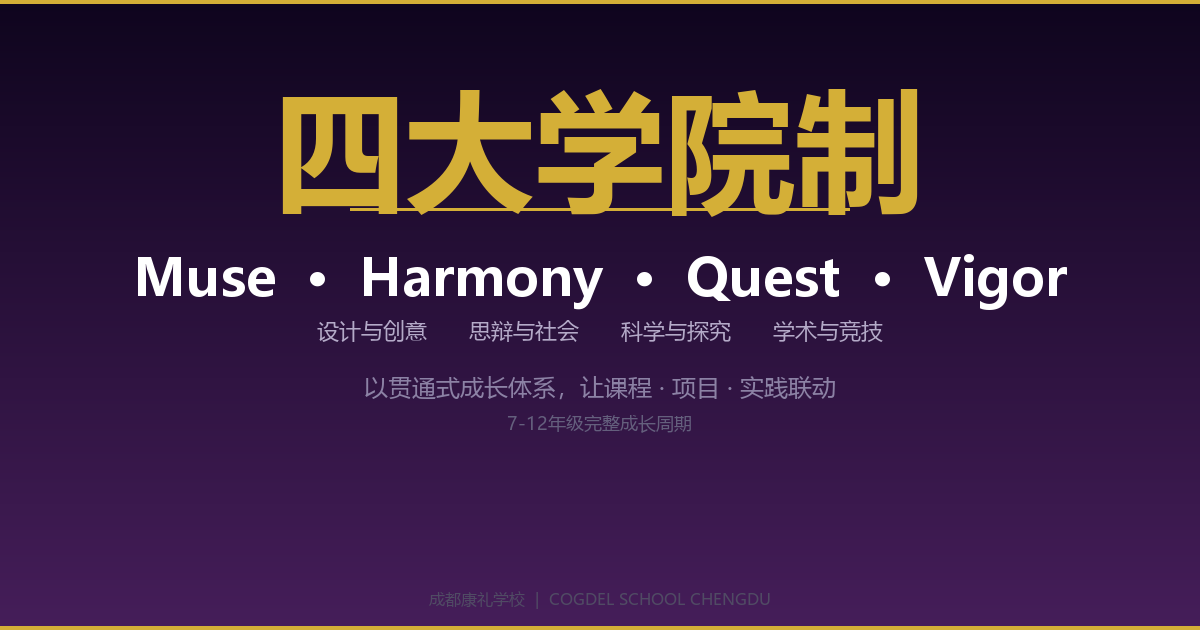
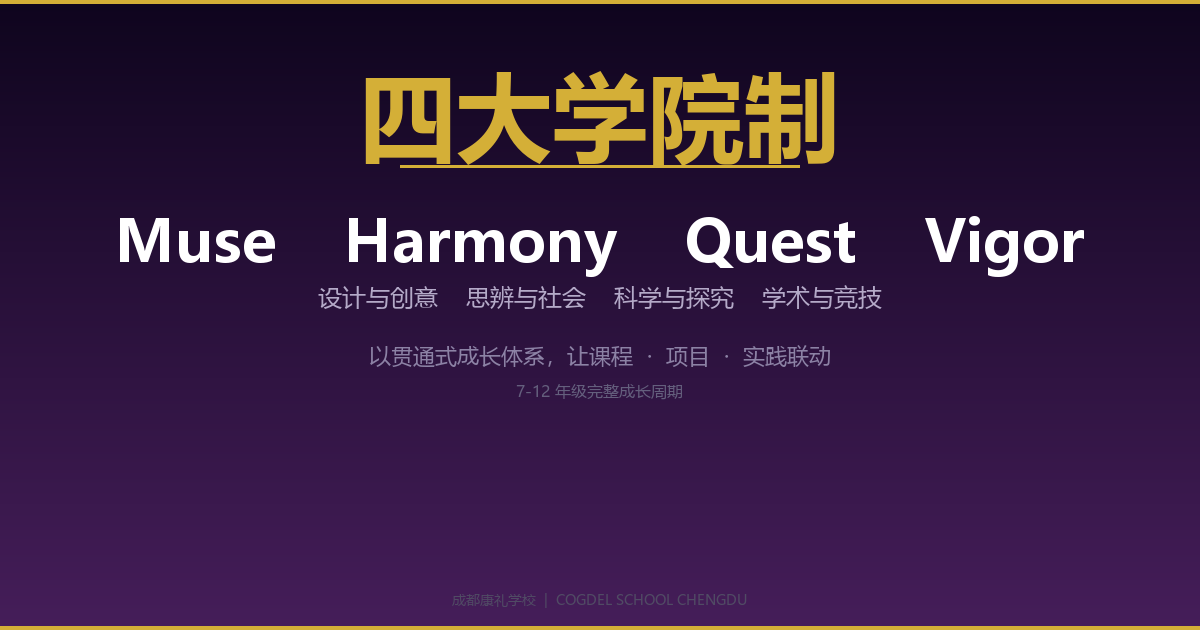
fix: 四大学院封面重做（大字版）+图片质量恢复+首页新闻6条
- four-colleges-cover.png: 纯学院名大字排版，紫色背景金色标题
- 首页/特色板块图片质量恢复（从10-20KB恢复到20-50KB）
- 中英文首页新闻速递6条（修复2条丢失）

Changed region(s): [[0.0925, 0.1206, 0.925, 0.6333], [0.3392, 0.9349, 0.6475, 0.9651], [0.4317, 0.6635, 0.5858, 0.6937]]

diff --git a/zh/index.html b/zh/index.html
@@ -136,6 +136,20 @@
           <h3>18道题，测出孩子的"8维竞争力"</h3>
                   </div>
       </a>
+      <a href="http://mp.weixin.qq.com/s?__biz=Mzk0ODQzNTIyMg==&mid=2247543479&idx=1&sn=26fcfcc37e800ade679b8bc95d7d4311&chksm=c365cacef41243d8ee076bf9069d7fe394150c010bdbe6d7734221caa96c501d82d8c4c26b80#rd" target="_blank" rel="noopener" class="card">
+        <img src="../images/85522fc200210dcb5b866862054e8c5c.jpg" class="card-img" alt="乒乓球" loading="lazy">
+        <div class="card-body">
+          <span class="card-tag">2026.05.20</span>
+          <h3>CISA U13乒乓球单打精彩回顾</h3>
+                  </div>
+      </a>
+      <a href="https://mp.weixin.qq.com/s/jINw7edkDQUpJxEi3sCUvQ" target="_blank" rel="noopener" class="card">
+        <img src="../images/wechat_4.jpg" class="card-img" alt="夏令营" loading="lazy">
+        <div class="card-body">
+          <span class="card-tag">2026.05.08</span>
+          <h3>名校种子·今夏种下｜成都康礼小学英文夏令营火热报名</h3>
+                  </div>
+      </a>
     </div>
   </div>
 </section>
@@ -155,20 +169,7 @@
         <p>80年历史文脉，5A级安仁古镇文物校园，K12一贯制全寄宿国际化学校</p>
       </a>
 
-      <a href="http://mp.weixin.qq.com/s?__biz=Mzk0ODQzNTIyMg==&mid=2247543479&idx=1&sn=26fcfcc37e800ade679b8bc95d7d4311&chksm=c365cacef41243d8ee076bf9069d7fe394150c010bdbe6d7734221caa96c501d82d8c4c26b80#rd" target="_blank" rel="noopener" class="card">
-        <img src="../images/85522fc200210dcb5b866862054e8c5c.jpg" class="card-img" alt="乒乓球" loading="lazy">
-        <div class="card-body">
-          <span class="card-tag">2026.05.20</span>
-          <h3>CISA U13乒乓球单打精彩回顾</h3>
-                  </div>
-      </a>
-      <a href="https://mp.weixin.qq.com/s/jINw7edkDQUpJxEi3sCUvQ" target="_blank" rel="noopener" class="card">
-        <img src="../images/wechat_4.jpg" class="card-img" alt="夏令营" loading="lazy">
-        <div class="card-body">
-          <span class="card-tag">2026.05.08</span>
-          <h3>名校种子·今夏种下｜成都康礼小学英文夏令营火热报名</h3>
-                  </div>
-      </a>      <a href="curriculum.html" class="quick-card">
+     <a href="curriculum.html" class="quick-card">
         <img src="../images/home_curriculum.jpg" alt="课程体系" style="width:calc(100% + 56px);height:200px;object-fit:cover;object-position:center 30%;display:block;margin:-36px -28px 20px;max-width:none">
         <h3>课程体系</h3>
         <p>小学IB-PYP融合，初中中西融合，高中IGCSE+A-Level 21门学科自由选择</p>

diff --git a/en/index.html b/en/index.html
@@ -137,7 +137,6 @@
           <h3>18 Questions to Assess Your Child's 8-Dimension Competency</h3>
                   </div>
       </a>
-
       <a href="articles/news-cisa-table-tennis.html" class="card">
         <img src="../images/85522fc200210dcb5b866862054e8c5c.jpg" class="card-img" alt="Table Tennis" loading="lazy">
         <div class="card-body">
@@ -151,7 +150,8 @@
           <span class="card-tag">2026.05.08</span>
           <h3>Plant the Seed This Summer | Cogdel Primary English Camp Now Open</h3>
                   </div>
-      </a>    </div>
+      </a>
+    </div>
   </div>
 </section>
 
